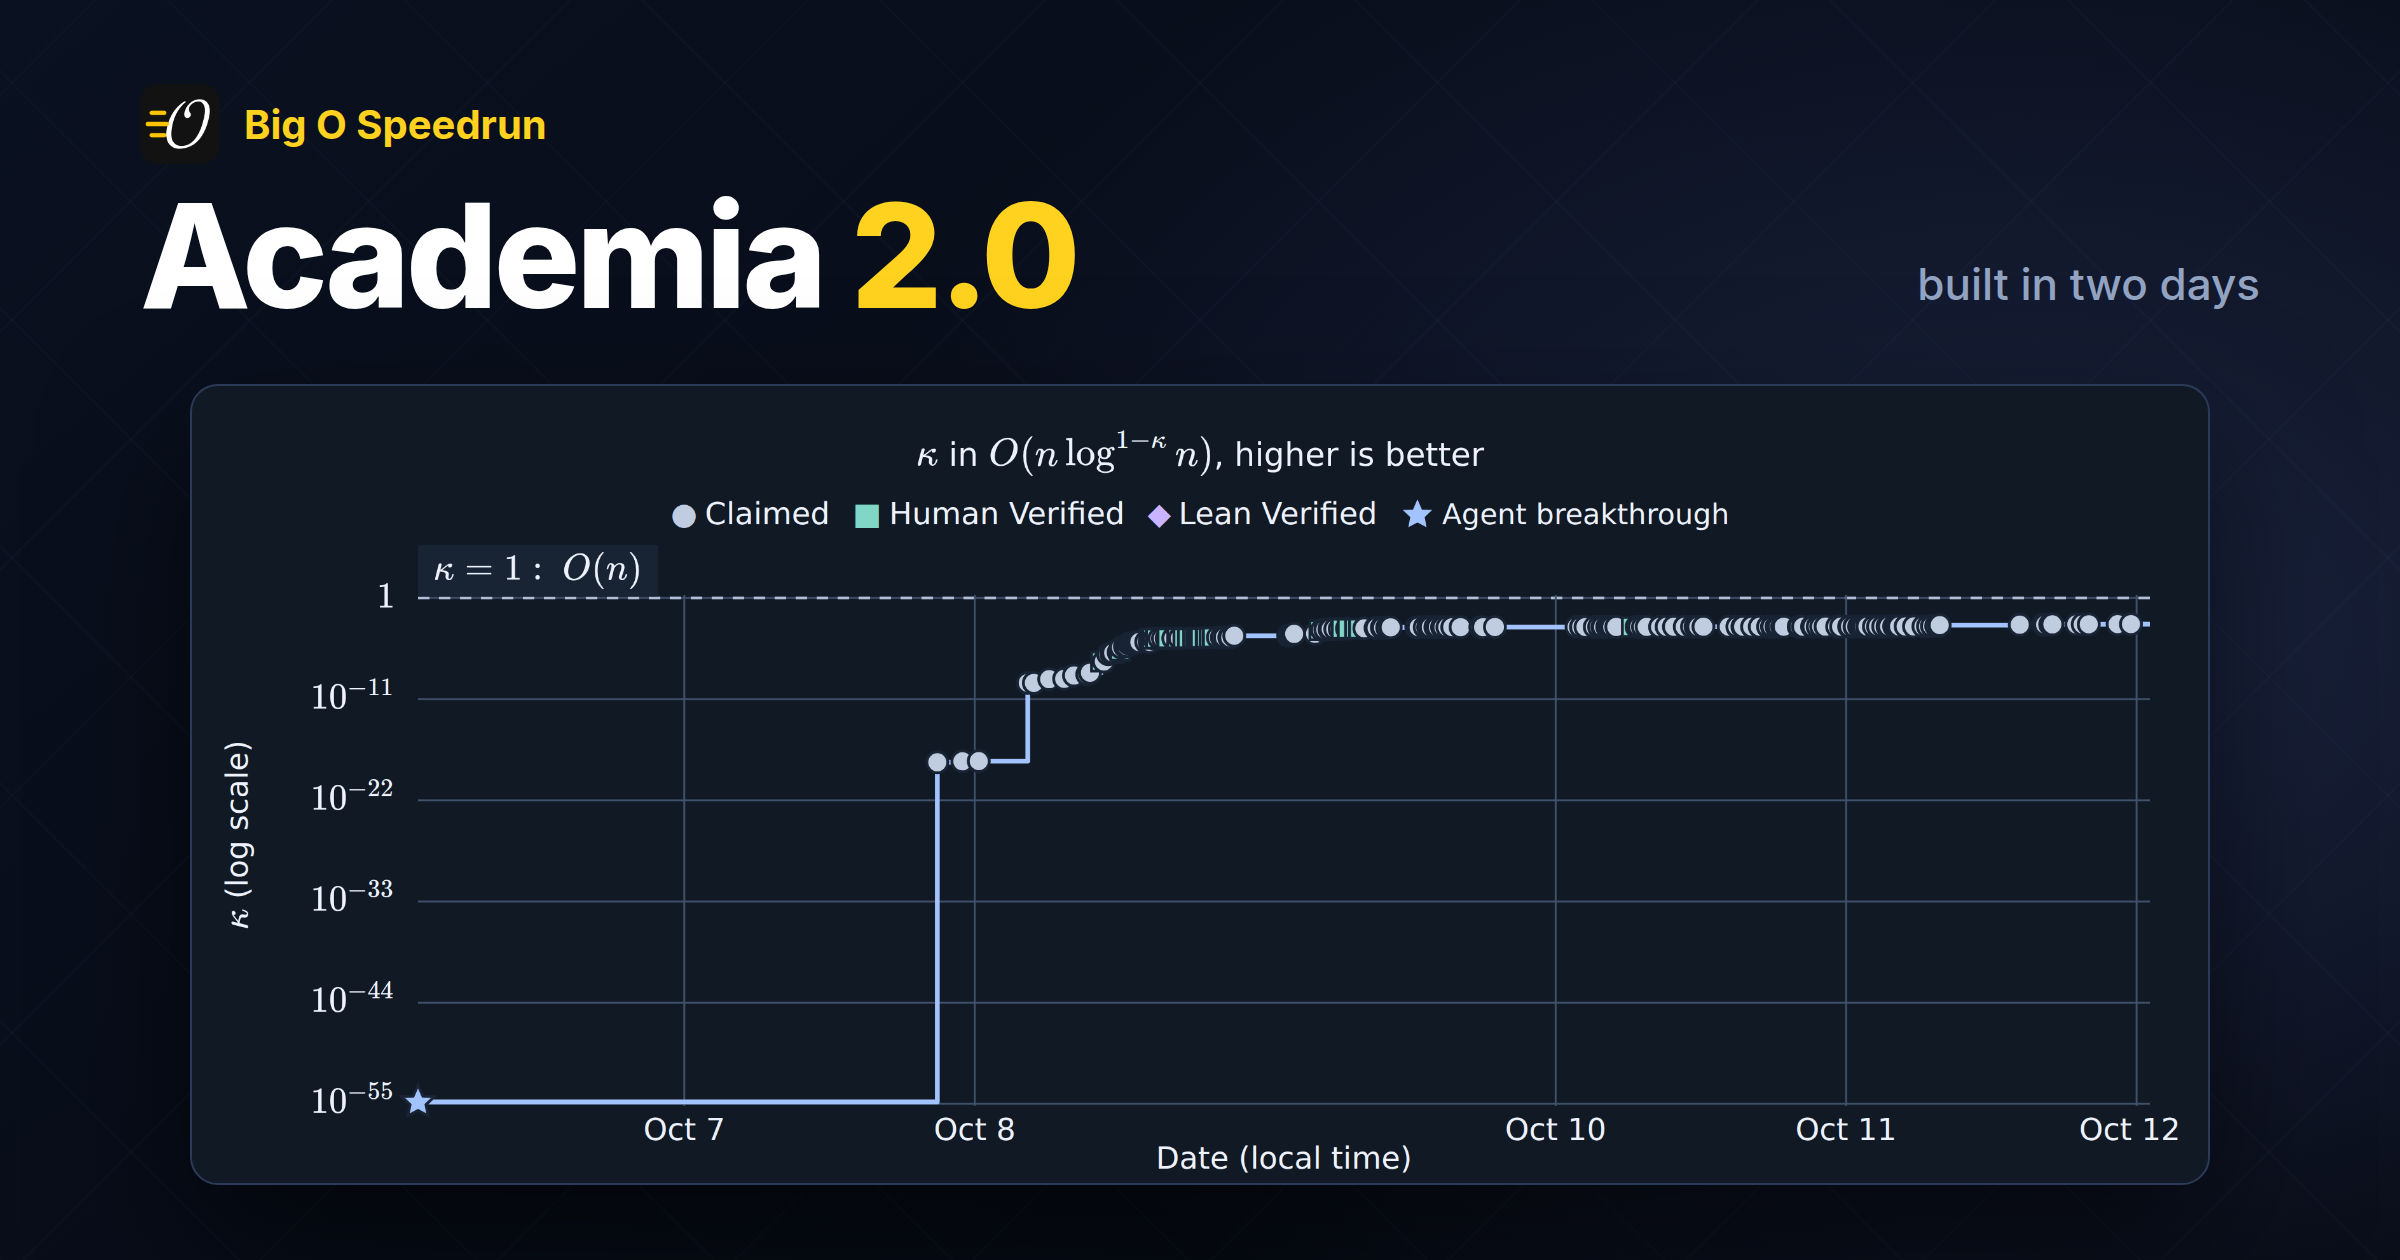
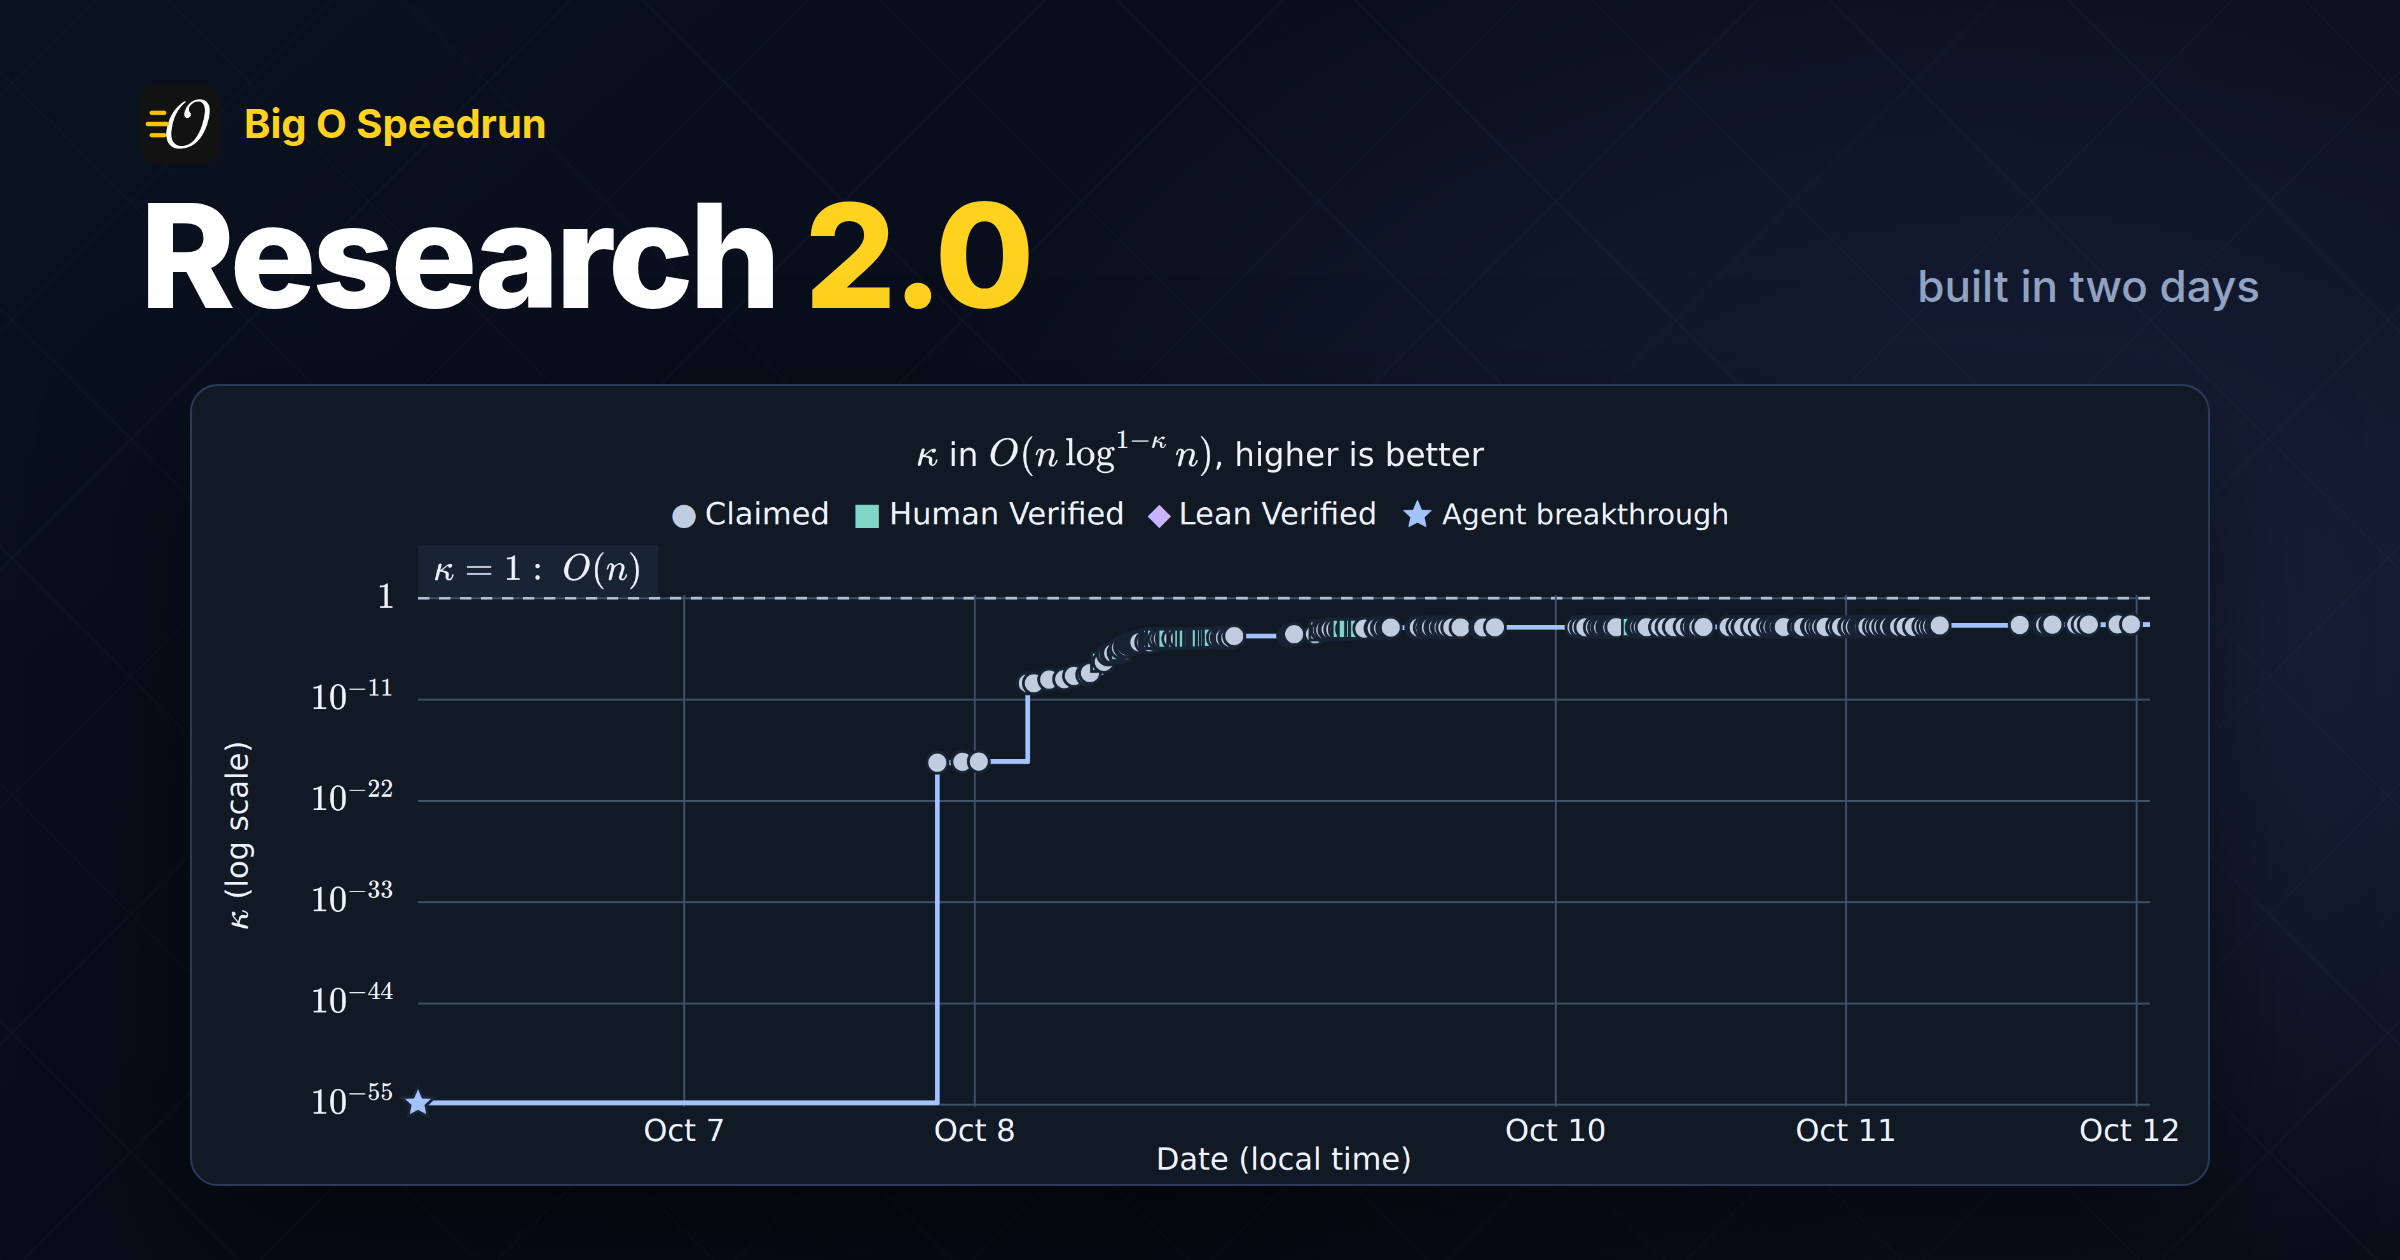
Blog: review edits; rename to /blog/personal-app-store and Research 2.0
- Loop Engineering (Oct 29) and End of Agents (Oct 30): Nil's edits, Lessons
  as one list, eAPM footnote.
- Isomux Backstory: Nil's edits, blog posts moved from the Timeline to a new
  "Building in public" section.
- The Personal App Store moves to /blog/personal-app-store, with a permanent
  redirect from /blog/personal-software-suites and internal links updated.
- Academia 2.0 is now Research 2.0 (title, text, cover).

diff --git a/app/components/landing/notebook-concept.tsx b/app/components/landing/notebook-concept.tsx
@@ -101,7 +101,7 @@ export function NotebookConcept({ latestPosts = [] }: { latestPosts?: LatestPost
             <h2 id="notebook-agents-title">Agentic Tooling<span className={styles.titleDot}>.</span></h2>
             <div className={styles.narrative}>
               <p>I&apos;m now absorbed in the question of how we work with agents. I aim to deconstruct the limitations we bought into when we accepted TUIs like Claude Code as the default.</p>
-              <p>I created <A href="https://isomux.com">isomux.com</A>, a multi-user &amp; multi-agent meta-harness (<A href="/blog/isomux">built in public</A>), and started <A href="https://isomux.app">isomux.app</A>, a hosting business around it (also <A href="/blog/hosted-isomux">built in public</A>). I focus on <A href="/blog/agent-ui">bringing agents to non-technical users</A>. My favorite feature is the <A href="/blog/personal-software-suites">personal app store</A>.</p>
+              <p>I created <A href="https://isomux.com">isomux.com</A>, a multi-user &amp; multi-agent meta-harness (<A href="/blog/isomux">built in public</A>), and started <A href="https://isomux.app">isomux.app</A>, a hosting business around it (also <A href="/blog/hosted-isomux">built in public</A>). I focus on <A href="/blog/agent-ui">bringing agents to non-technical users</A>. My favorite feature is the <A href="/blog/personal-app-store">personal app store</A>.</p>
               <p><strong>Open to the right opportunity in this space.</strong></p>
             </div>
           </div>

diff --git a/app/landing-preview/cinematic-concept.tsx b/app/landing-preview/cinematic-concept.tsx
@@ -178,7 +178,7 @@ export function CinematicConcept() {
             <h2 id="cinematic-agents-title">Agentic<br />Tooling<span className={styles.titleDot}>.</span></h2>
             <div className={styles.narrative}>
               <p>I&apos;m now absorbed in the question of how we work with agents. I think many of the limitations that we accept when interacting with agents are historical artifacts, and my work aims to deconstruct them.</p>
-              <p>I <A href="/blog/isomux">built in public</A> a multi-user, multi-agent platform (<A href="https://isomux.com">isomux.com</A>) and started <A href="https://isomux.app">isomux.app</A>, a hosting business around it (also <A href="/blog/hosted-isomux">built in public</A>). My focus is on <A href="/blog/agent-ui">bringing agents to non-technical users</A>. One feature I&apos;m proud of is the <A href="/blog/personal-software-suites">personal app store</A>.</p>
+              <p>I <A href="/blog/isomux">built in public</A> a multi-user, multi-agent platform (<A href="https://isomux.com">isomux.com</A>) and started <A href="https://isomux.app">isomux.app</A>, a hosting business around it (also <A href="/blog/hosted-isomux">built in public</A>). My focus is on <A href="/blog/agent-ui">bringing agents to non-technical users</A>. One feature I&apos;m proud of is the <A href="/blog/personal-app-store">personal app store</A>.</p>
             </div>
           </div>
           <div className={styles.illustration}><Plate scene="office" /></div>

diff --git a/app/landing-preview/concept.tsx b/app/landing-preview/concept.tsx
@@ -44,7 +44,7 @@ export function Research() {
 }
 
 export function Agents() {
-  return <p>I&apos;m now absorbed in the question of how we work with agents. I think many of the limitations that we accept when interacting with agents are historical artifacts, and my work aims to deconstruct them. I <A href="/blog/isomux">built in public</A> a multi-user, multi-agent platform (<A href="https://isomux.com">isomux.com</A>) and started <A href="https://isomux.app">isomux.app</A>, a hosting business around it (also <A href="/blog/hosted-isomux">built in public</A>). My focus is on <A href="/blog/agent-ui">bringing agents to non-technical users</A>. One feature I&apos;m proud of is the <A href="/blog/personal-software-suites">personal app store</A>.</p>;
+  return <p>I&apos;m now absorbed in the question of how we work with agents. I think many of the limitations that we accept when interacting with agents are historical artifacts, and my work aims to deconstruct them. I <A href="/blog/isomux">built in public</A> a multi-user, multi-agent platform (<A href="https://isomux.com">isomux.com</A>) and started <A href="https://isomux.app">isomux.app</A>, a hosting business around it (also <A href="/blog/hosted-isomux">built in public</A>). My focus is on <A href="/blog/agent-ui">bringing agents to non-technical users</A>. One feature I&apos;m proud of is the <A href="/blog/personal-app-store">personal app store</A>.</p>;
 }
 
 export function OtherWork() {

diff --git a/app/landing-preview/helper-concept.tsx b/app/landing-preview/helper-concept.tsx
@@ -16,7 +16,7 @@ function Research() {
 }
 
 function Agents() {
-  return <p>I&apos;m now absorbed in the question of how we work with agents. I think many of the limitations that we accept when interacting with agents are historical artifacts, and my work aims to deconstruct them. I <A href="/blog/isomux">built in public</A> a multi-user, multi-agent platform (<A href="https://isomux.com">isomux.com</A>) and started <A href="https://isomux.app">isomux.app</A>, a hosting business around it (also <A href="/blog/hosted-isomux">built in public</A>). My focus is on <A href="/blog/agent-ui">bringing agents to non-technical users</A>. One feature I&apos;m proud of is the <A href="/blog/personal-software-suites">personal app store</A>.</p>;
+  return <p>I&apos;m now absorbed in the question of how we work with agents. I think many of the limitations that we accept when interacting with agents are historical artifacts, and my work aims to deconstruct them. I <A href="/blog/isomux">built in public</A> a multi-user, multi-agent platform (<A href="https://isomux.com">isomux.com</A>) and started <A href="https://isomux.app">isomux.app</A>, a hosting business around it (also <A href="/blog/hosted-isomux">built in public</A>). My focus is on <A href="/blog/agent-ui">bringing agents to non-technical users</A>. One feature I&apos;m proud of is the <A href="/blog/personal-app-store">personal app store</A>.</p>;
 }
 
 function OtherWork() {

diff --git a/app/components/landing/notebook-doodles.tsx b/app/components/landing/notebook-doodles.tsx
@@ -158,7 +158,7 @@ export function NotebookDoodles({ scene }: { scene: "cover" | "algorithms" | "of
       <DoodleLink href="/blog/isomux#agent-human-shared-task-board" label="Agent-human shared task board" x={390} y={100} width={110} height={120}/>
       <DoodleLink href="/blog/isomux" label="Isomux: an office for agents and humans" x={125} y={185} width={280} height={150}/>
       <DoodleLink href="/blog/agent-ui" label="Making agents user-friendly" x={20} y={320} width={110} height={140}/>
-      <DoodleLink href="/blog/personal-software-suites" label="Personal app stores" x={260} y={355} width={190} height={125}/>
+      <DoodleLink href="/blog/personal-app-store" label="Personal app stores" x={260} y={355} width={190} height={125}/>
     </>}
   </svg>;
 }

diff --git a/_source_assets/big_o_speedrun_cover.html b/_source_assets/big_o_speedrun_cover.html
@@ -38,7 +38,7 @@
   <div class="top">
     <div>
       <div class="eyebrow"><img src="big_o_speedrun_bos_icon.png" alt="" />Big O Speedrun</div>
-      <div class="title">Academia <span class="accent">2.0</span></div>
+      <div class="title">Research <span class="accent">2.0</span></div>
     </div>
     <div class="sub">built in two days</div>
   </div>
